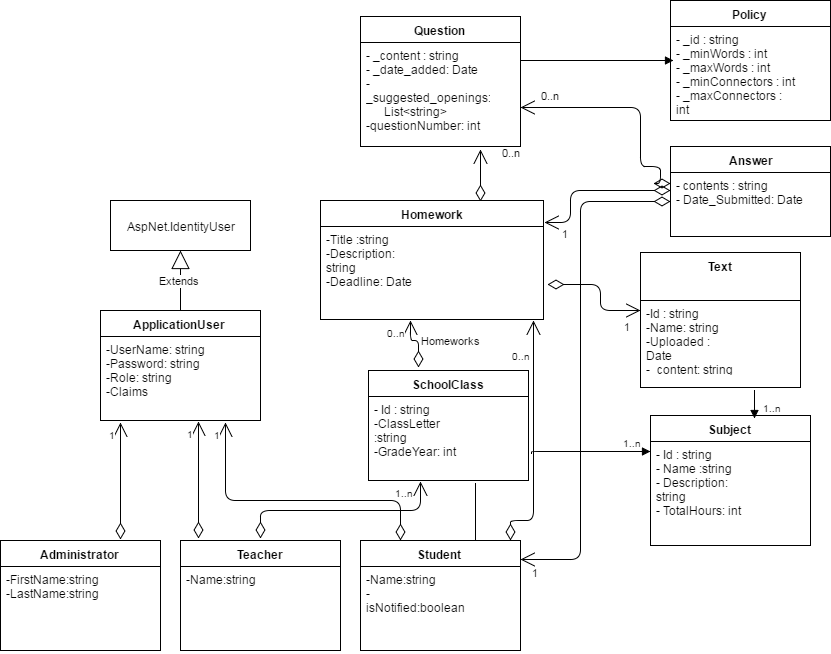
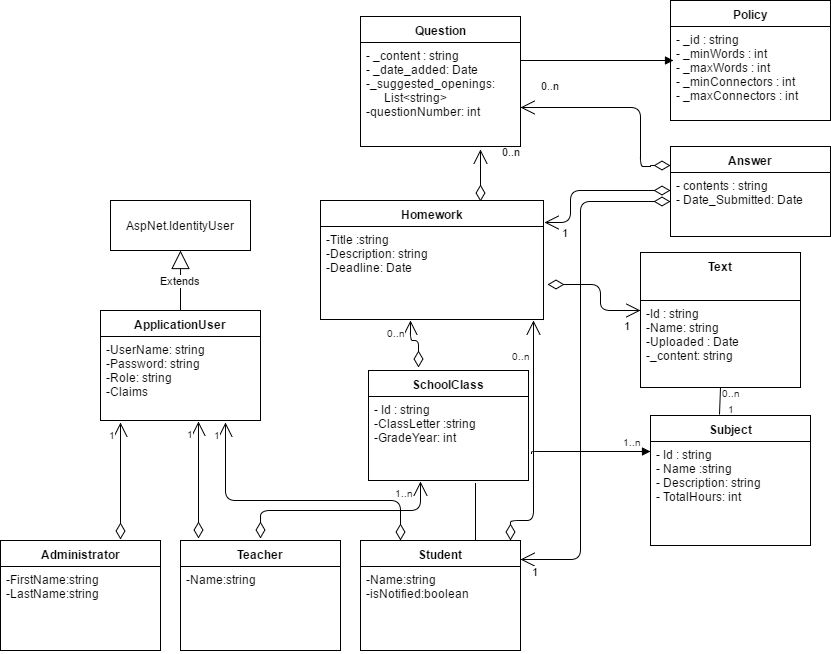
interface for all IDable entities, updated diagram arrow

diff --git a/MichtavaSol/Entities/Models/HasId.cs b/MichtavaSol/Entities/Models/HasId.cs
@@ -1,0 +1,13 @@
+using System;
+using System.Collections.Generic;
+using System.Linq;
+using System.Text;
+using System.Threading.Tasks;
+
+namespace Entities.Models
+{
+    interface HasId
+    {
+         Guid Id { get; set; }
+    }
+}
